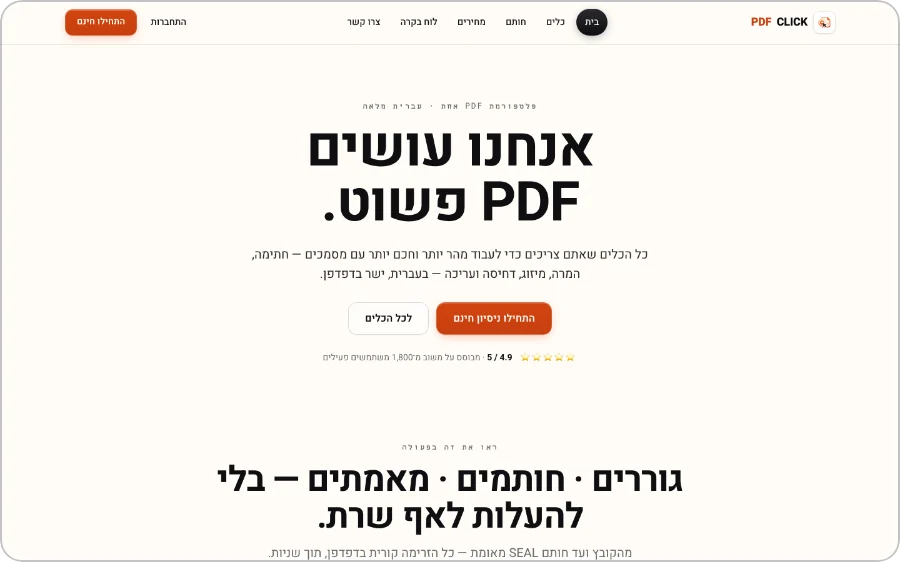
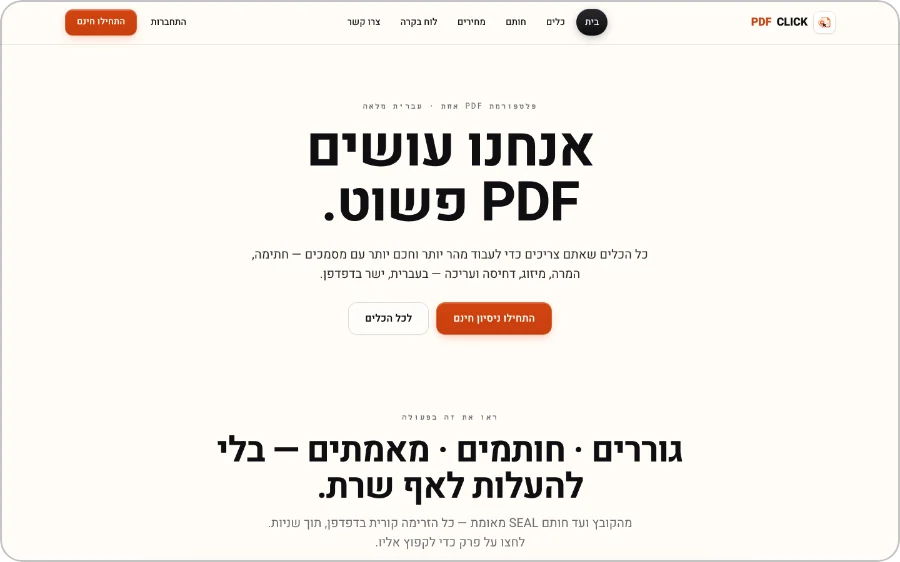
Re-shoot the Click PDF card after the rating line was removed

diff --git a/README.md b/README.md
@@ -96,7 +96,7 @@ Fifteen coordinated, zero-overlap skills under one stance — scout wide, strike
 <tr>
 <td width="50%" valign="top">
 
-<a href="https://click-pdf.vercel.app"><img src="https://raw.githubusercontent.com/shear559/shear559/main/assets/work/click-pdf.webp?v=2" alt="Click PDF" width="100%" /></a>
+<a href="https://click-pdf.vercel.app"><img src="https://raw.githubusercontent.com/shear559/shear559/main/assets/work/click-pdf.webp?v=3" alt="Click PDF" width="100%" /></a>
 
 ### [Click PDF](https://click-pdf.vercel.app)
 
